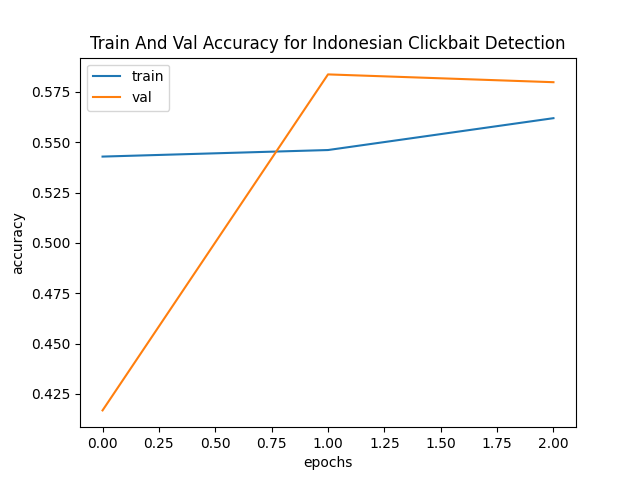
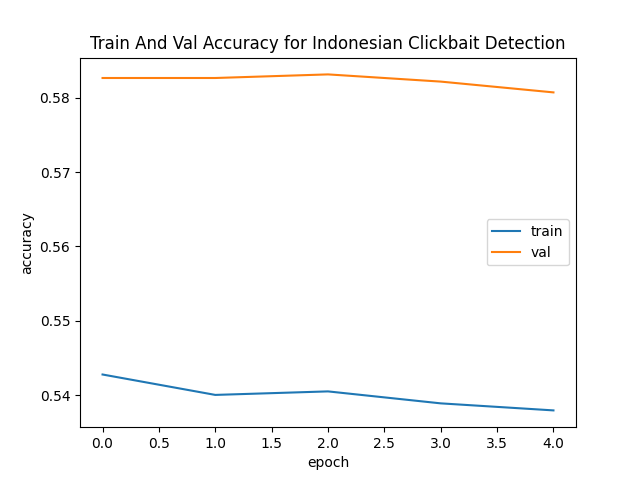
add code for plotting other metrics

diff --git a/main.py b/main.py
@@ -1,16 +1,21 @@
 import time
 
+import numpy as np
 import pandas as pd
 import os
-from sklearn.metrics import accuracy_score
+from sklearn.metrics import accuracy_score, classification_report, f1_score
 from torch.utils.data import TensorDataset, DataLoader, RandomSampler, random_split
 # from transformers.utils.notebook import format_time
 from torch.utils.throughput_benchmark import format_time
 
 import global_vars
-from transformers import BertTokenizer, BertForSequenceClassification, AdamW
+from transformers import BertTokenizer, BertForSequenceClassification, AdamW, BertModel
 import torch
 from util import flat_accuracy, plot_metrics
+
+# TODO get the new metrics and confusion matrix working
+# TODO parse the Telugu dataset and run it
+# TODO get the multilingual model to work, and run all the datasets through it
 
 # reading in CSV: clickbait = 1, non-clickbait = 0
 
@@ -62,6 +67,8 @@ def tokenize():
     inputs_all = []
     attention_masks_all = []
     tokenizer = BertTokenizer.from_pretrained('bert-base-uncased', do_lower_case=True)
+    # tokenizer = BertTokenizer.from_pretrained('bert-base-multilingual-uncased')
+
     for sentence in df[title]:
         # print(sentence)
         inputs = tokenizer.encode(sentence, add_special_tokens=True)
@@ -106,6 +113,12 @@ def setup_model():
         output_attentions=False,
         output_hidden_states=False,
     )
+    # model = BertModel.from_pretrained(
+    #     "bert-base-multilingual-uncased",
+    #     num_labels=2,
+    #     output_attentions=False,
+    #     output_hidden_states=False,
+    # )
     return model
 
 def setup_optimizer(model):
@@ -117,12 +130,22 @@ def setup_optimizer(model):
 def train(model, optimizer, device, train_dataloader, val_dataloader):
     train_losses =[]
     train_accs = []
+    train_precisions = []
+    train_recalls = []
+    train_f1s = []
     val_losses = []
     val_accs = []
+    val_precisions = []
+    val_recalls = []
+    val_f1s = []
+
     for epoch in range(0,global_vars.num_epochs):
         t0 = time.time()
         total_train_loss = 0
         total_train_acc = 0
+        total_precision = 0
+        total_f1 = 0
+        total_recall = 0
         model.train()
         for step, batch in enumerate(train_dataloader):
             if step % 40 == 0 and not step == 0:
@@ -138,18 +161,28 @@ def train(model, optimizer, device, train_dataloader, val_dataloader):
                                  attention_mask=b_input_mask,
                                  labels=b_labels,
                                  return_dict=False)
-            print({'train_batch_loss': loss.item()})
+            # print({'train_batch_loss': loss.item()})
             total_train_loss += loss.item()
             label_ids = b_labels.to('cpu').numpy()
             total_train_acc += flat_accuracy(logits.detach().numpy(), label_ids)
+            metrics = classification_report(label_ids, np.argmax(logits.detach().numpy(), axis=1), digits=4, output_dict=True)
+            total_precision += metrics["weighted avg"]["precision"]
+            total_f1 += metrics["weighted avg"]["f1-score"]
+            total_recall += metrics["weighted avg"]["recall"]
             loss.backward()
             torch.nn.utils.clip_grad_norm_(model.parameters(), 1.0)
             optimizer.step()
             # scheduler.step()
         avg_train_loss = total_train_loss / len(train_dataloader)
         avg_train_acc = total_train_acc / len(train_dataloader)
+        avg_recall = total_recall / len(train_dataloader)
+        avg_precision = total_precision / len(train_dataloader)
+        avg_f1 = total_f1 / len(train_dataloader)
         train_losses.append(avg_train_loss)
         train_accs.append(avg_train_acc)
+        train_precisions.append(avg_precision)
+        train_recalls.append(avg_recall)
+        train_f1s.append(avg_f1)
         training_time = format_time(time.time() - t0)
         # Log the Avg. train loss
         print({'avg_train_loss': avg_train_loss})
@@ -162,6 +195,9 @@ def train(model, optimizer, device, train_dataloader, val_dataloader):
         model.eval()
         total_eval_accuracy = 0
         total_eval_loss = 0
+        total_eval_precision = 0
+        total_eval_f1 = 0
+        total_eval_recall = 0
         nb_eval_steps = 0
         # Evaluate data for one epoch
         for batch in val_dataloader:
@@ -180,18 +216,30 @@ def train(model, optimizer, device, train_dataloader, val_dataloader):
             logits = logits.detach().cpu().numpy()
             label_ids = b_labels.to('cpu').numpy()
             total_eval_accuracy += flat_accuracy(logits, label_ids)
+            total_eval_precision += metrics["weighted avg"]["precision"]
+            total_eval_f1 += metrics["weighted avg"]["f1-score"]
+            total_eval_recall += metrics["weighted avg"]["recall"]
+            # get the recall, f1, precision scores
+            print(classification_report(label_ids, np.argmax(logits, axis=1), digits=4))
 
         avg_val_accuracy = total_eval_accuracy / len(val_dataloader)
         print("  Accuracy: {0:.2f}".format(avg_val_accuracy))
         avg_val_loss = total_eval_loss / len(val_dataloader)
+        avg_eval_recall = total_recall / len(train_dataloader)
+        avg_eval_precision = total_precision / len(train_dataloader)
+        avg_eval_f1 = total_f1 / len(train_dataloader)
         val_accs.append(avg_val_accuracy)
         val_losses.append(avg_val_loss)
+        val_precisions.append(avg_eval_precision)
+        val_recalls.append(avg_eval_recall)
+        val_f1s.append(avg_eval_f1)
         validation_time = format_time(time.time() - t0)
         # Log the Avg. validation accuracy
         print(({'val_accuracy': avg_val_accuracy, 'avg_val_loss': avg_val_loss}))
         print("  Validation Loss: {0:.2f}".format(avg_val_loss))
-
-    plot_metrics(train_losses, train_accs, val_losses, val_accs)
+    train_metrics = [train_losses, train_accs, train_f1s, train_precisions, train_recalls]
+    val_metrics = [val_losses, val_accs, val_f1s, val_precisions, val_recalls]
+    plot_metrics(train_metrics, val_metrics)
 
 def main():
     dataset = tokenize()

diff --git a/util.py b/util.py
@@ -11,33 +11,47 @@ def flat_accuracy(preds, labels):
 
 
 # lists of values, save_dir should correspond to a context window size
-def plot_metrics(train_loss, train_acc, val_loss, val_acc):
+# train metrics is a list of training metrics: loss, accuracy, f1, precision, recall
+def plot_metrics(train_metrics, val_metrics):
     if global_vars.data_using == 0:
         language_name = "Indonesian"
     elif global_vars.data_using == 1:
         language_name = "English"
-    # plot train_loss and val_loss
-    plt.figure()
-    plt.title("Train And Val Loss for " + language_name + " Clickbait Detection" )
-    plt.plot(train_loss, label="train")
-    plt.plot(val_loss, label="val")
-    plt.ylabel("loss")
-    plt.xlabel("epoch")
-    plt.legend()
-
     save_name_pref = language_name+str(global_vars.learning_rate)
 
-    save_name = save_name_pref + "loss.png"
-    plt.savefig("graphs/" + save_name)
-    plt.clf()
-    # plot train_acc and val_acc
-    plt.figure()
-    plt.title("Train And Val Accuracy for " + language_name + " Clickbait Detection" )
-    plt.plot(train_acc, label="train")
-    plt.plot(val_acc, label="val")
-    plt.ylabel("accuracy")
-    plt.xlabel("epoch")
-    plt.legend()
-    save_name = save_name_pref + "accuracy.png"
-    plt.savefig("graphs/" + save_name)
-    plt.clf()
+    for i in range(0,len(train_metrics)):
+        plt.plot(train_metrics[i], label="train")
+        plt.plot(val_metrics[i], label="validation")
+        plt.title("Training and Validation "+global_vars.metric_names[i] + " for " + language_name + " Clickbait Detection")
+        plt.xlabel("Epoch")
+        plt.ylabel(global_vars.metric_names[i])
+        plt.legend()
+        save_name = save_name_pref+global_vars.metric_names[i]+".png"
+        plt.savefig(save_name)
+        plt.clf()
+        plt.cla()
+        plt.close()
+    # # plot train_loss and val_loss
+    # plt.figure()
+    # plt.title("Train And Val Loss for " + language_name + " Clickbait Detection" )
+    # plt.plot(train_loss, label="train")
+    # plt.plot(val_loss, label="val")
+    # plt.ylabel("loss")
+    # plt.xlabel("epoch")
+    # plt.legend()
+
+
+    # # save_name = "multilingual" + save_name_pref + "loss.png"
+    # plt.savefig("graphs/" + save_name)
+    # plt.clf()
+    # # plot train_acc and val_acc
+    # plt.figure()
+    # plt.title("Train And Val Accuracy for " + language_name + " Clickbait Detection" )
+    # plt.plot(train_acc, label="train")
+    # plt.plot(val_acc, label="val")
+    # plt.ylabel("accuracy")
+    # plt.xlabel("epoch")
+    # plt.legend()
+    # save_name = save_name_pref + "accuracy.png"
+    # plt.savefig("graphs/" + save_name)
+    # plt.clf()

diff --git a/global_vars.py b/global_vars.py
@@ -5,6 +5,9 @@ indonesia_csv_dir = "./indonesia_csvs"
 train_perc = 0.7
 batch_size = 64
 learning_rate = 0.1
-num_epochs = 5
-data_using = 0 # 0 for indonesian, 1 for english
+num_epochs = 1
+data_using = 1 # 0 for indonesian, 1 for english
 english_csv_name = "train1.csv"
+model_name = 'bert-base-multilingual-uncased'
+# model_name  = 'bert-base-uncased'
+metric_names = ["loss", "accuracy", "f1", "precision", "recall"]
